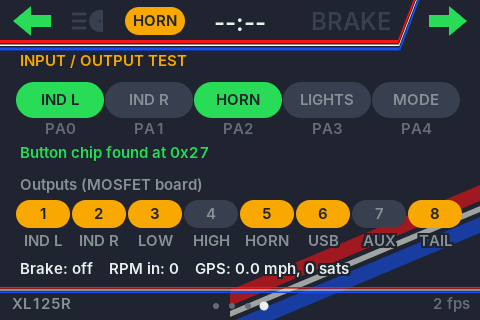
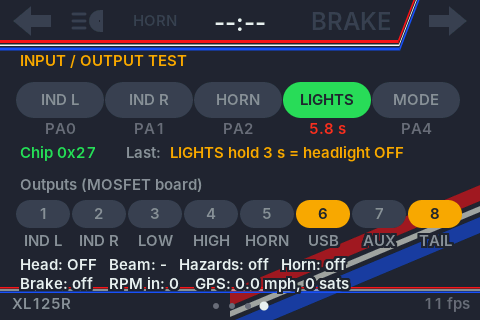
Dash v1: LIGHTS hold 3 s = headlight on/off, MODE hold 3 s on TRIP page resets trip A, TEST page shows held time, last action and light state
Claude-Session: https://claude.ai/code/session_01EhMcsDqwmw83FR1G3AXd3V

diff --git a/firmware/xl-dash-v1/dash.h b/firmware/xl-dash-v1/dash.h
@@ -279,6 +279,7 @@ struct Ride {
   int gear = 0;
   bool indL = false, indR = false, beam = false, brake = false;
   bool hazard = false, high = false, flash = false, horn = false;
+  bool lightsOn = true;           // headlight on at power-up
   bool out[8] = {};               // what each MOSFET output is doing right now
   uint8_t btn = 0;                // bit n = MCP pin n pressed (raw, live)
   int mcpAddr = -1;               // where the button chip was found, -1 = not found
@@ -476,27 +477,57 @@ static void saveTrips() {
 }
 
 static int pendingPage = 0;      // set by the MODE button, acted on in the loop
+static char lastEvent[48] = "press a button";   // shown on the TEST page and printed to Serial
+static uint32_t eventCount = 0;
+static void logEvent(const char *s) {
+  snprintf(lastEvent, sizeof lastEvent, "%s", s); eventCount++;
+  Serial.printf("[button] %s\n", s);
+}
 static void handleButtons() {
   mcpRead();
   int e;
   if ((e = pollButton(bL))) {
-    if (e == 1) { S.hazard = false; S.indR = false; S.indL = !S.indL; }
-    else        { S.hazard = !S.hazard; S.indL = S.indR = false; }
+    if (e == 1) { S.hazard = false; S.indR = false; S.indL = !S.indL; logEvent(S.indL ? "IND L tap = left ON" : "IND L tap = left off"); }
+    else        { S.hazard = !S.hazard; S.indL = S.indR = false; logEvent(S.hazard ? "IND L hold = hazards ON" : "IND L hold = hazards off"); }
   }
   if ((e = pollButton(bR))) {
-    if (e == 1) { S.hazard = false; S.indL = false; S.indR = !S.indR; }
-    else        { S.hazard = !S.hazard; S.indL = S.indR = false; }
+    if (e == 1) { S.hazard = false; S.indL = false; S.indR = !S.indR; logEvent(S.indR ? "IND R tap = right ON" : "IND R tap = right off"); }
+    else        { S.hazard = !S.hazard; S.indL = S.indR = false; logEvent(S.hazard ? "IND R hold = hazards ON" : "IND R hold = hazards off"); }
   }
-  pollButton(bHorn);
+  if (pollButton(bHorn) == 1) logEvent("HORN pressed");
   S.horn = S.btn & (1 << BTN_HORN);                       // straight from the switch, no delay
-  if (pollButton(bLights) == 1) S.high = !S.high;
-  // MODE: tap = flash the high beam for PASS_FLASH_MS, hold = next page
-  static uint32_t passUntil = 0;
-  if ((e = pollButton(bMode))) {
-    if (e == 1) passUntil = millis() + PASS_FLASH_MS;
-    else pendingPage = +1;
+  uint32_t now = millis();
+
+  // LIGHTS: tap = high / low (or back on, if off), hold LIGHTS_OFF_MS = headlight on / off
+  static bool lightsDone = false;
+  if (pollButton(bLights) == 1) {
+    if (!S.lightsOn) { S.lightsOn = true; logEvent("LIGHTS tap = headlight back ON"); }
+    else { S.high = !S.high; logEvent(S.high ? "LIGHTS tap = HIGH beam" : "LIGHTS tap = low beam"); }
   }
-  S.flash = (bLights.down && bLights.held) || (int32_t)(passUntil - millis()) > 0;
+  if (!bLights.down) lightsDone = false;
+  else if (!lightsDone && now - bLights.downMs >= LIGHTS_OFF_MS) {
+    S.lightsOn = !S.lightsOn; S.high = false; lightsDone = true;
+    logEvent(S.lightsOn ? "LIGHTS hold 3 s = headlight ON" : "LIGHTS hold 3 s = headlight OFF");
+  }
+
+  // MODE: tap = flash the high beam for PASS_FLASH_MS, hold = next page.
+  // On the TRIP page: hold and let go = next page, keep holding TRIP_RESET_MS = reset trip A.
+  static uint32_t passUntil = 0;
+  static bool modeWaiting = false;
+  if ((e = pollButton(bMode))) {
+    if (e == 1) { passUntil = now + PASS_FLASH_MS; logEvent("MODE tap = flash high beam"); }
+    else if (page == 1) modeWaiting = true;
+    else { pendingPage = +1; logEvent("MODE hold = next page"); }
+  }
+  if (modeWaiting) {
+    if (!bMode.down) { modeWaiting = false; pendingPage = +1; logEvent("MODE hold = next page"); }
+    else if (now - bMode.downMs >= TRIP_RESET_MS) {
+      modeWaiting = false;
+      S.tripA = 0; S.maxMph = 0; S.rideS = 0; S.movingS = 0; saveTrips();
+      logEvent("MODE hold 3 s = trip A RESET");
+    }
+  }
+  S.flash = (int32_t)(passUntil - now) > 0;
 }
 
 static bool flashPhase() { return (millis() % FLASH_PERIOD_MS) < FLASH_PERIOD_MS / 2; }
@@ -504,9 +535,9 @@ static void writeOutputs() {
   bool f = flashPhase(), w[8];
   w[O_IND_L] = (S.indL || S.hazard) && f;
   w[O_IND_R] = (S.indR || S.hazard) && f;
-  bool highOn = S.high || S.flash;
+  bool highOn = (S.lightsOn && S.high) || S.flash;   // flash works even with the lights off
   w[O_HIGH] = highOn;
-  w[O_LOW] = !highOn || LOW_WITH_HIGH;
+  w[O_LOW] = S.lightsOn && (!highOn || LOW_WITH_HIGH);
   w[O_HORN] = S.horn;
   w[O_USB] = true;
   w[O_AUX] = false;
@@ -756,7 +787,7 @@ static Rect widgetRect(int id) {
     case W_SYS: return Rect{180, 76, 296, 206};
     case W_BTNS: return Rect{14, 74, 452, 96};
     case W_OUTS: return Rect{14, 196, 452, 56};
-    case W_TINFO: return Rect{14, 254, 452, 30};
+    case W_TINFO: return Rect{14, 254, 452, 40};
     default: return tripRect(id - W_T0);
   }
 }
@@ -789,7 +820,7 @@ static uint32_t widgetKey(int id) {
   switch (id) {
     case W_INDL: return indLit(true) ? 1 : 2;
     case W_INDR: return indLit(false) ? 1 : 2;
-    case W_BEAM: return S.beam ? 1 : 2;
+    case W_BEAM: return S.beam ? 1 : (S.lightsOn ? 2 : 3);
     case W_NEUT: return S.horn ? 1 : 2;
     case W_BRAKE: return S.brake ? 1 : 2;
     case W_CLOCK: { int hh, mm; return ukClock(hh, mm) ? (uint32_t)(hh * 60 + mm + 10) : 1; }
@@ -799,9 +830,15 @@ static uint32_t widgetKey(int id) {
     case W_TRIP: snprintf(b, sizeof b, "%.1f", S.tripA); return fnv(b);
     case W_ODO: snprintf(b, sizeof b, "%.1f", S.odo); return fnv(b);
     case W_BATT: snprintf(b, sizeof b, "%.1f %d %d", S.battV, S.lipoPct, S.charging); return fnv(b);
-    case W_BTNS: return (uint32_t)S.btn * 4 + (S.mcpAddr < 0 ? 0 : S.mcpAddr) * 1024 + 1;
+    case W_BTNS: {
+      uint32_t k = (uint32_t)S.btn * 4 + (S.mcpAddr < 0 ? 0 : S.mcpAddr) * 1024 + eventCount * 262144u + 1;
+      const Button *bs[5] = {&bL, &bR, &bHorn, &bLights, &bMode};
+      for (int i = 0; i < 5; i++) if (bs[i]->down) k = k * 31 + (millis() - bs[i]->downMs) / 100;   // held time, 0.1 s steps
+      return k;
+    }
     case W_OUTS: { uint32_t k = 1; for (int i = 0; i < 8; i++) k = k * 2 + (S.out[i] ? 1 : 0); return k; }
-    case W_TINFO: snprintf(b, sizeof b, "%d%d%d%d", S.brake, (int)S.rpm / 10, (int)(S.mph * 10), G.sats); return fnv(b);
+    case W_TINFO: snprintf(b, sizeof b, "%d%d%d%d%d%d%d%d%d", S.brake, (int)S.rpm / 10, (int)(S.mph * 10), G.sats,
+                           S.lightsOn, S.high, S.flash, S.hazard, S.horn); return fnv(b);
     case W_SYS: { if (millis() % 500 > 40) return lastKey[W_SYS]; char l[8][32]; sysLines(l); uint32_t h = 2166136261u; for (int i = 0; i < 8; i++) h = fnv(l[i], h); return h; }
     default: {
       int i = id - W_T0;
@@ -822,7 +859,7 @@ static void drawWidget(int id) {
   switch (id) {
     case W_INDL: arrowIcon(r, true, indLit(true) ? C_GRN : C_OFF); break;
     case W_INDR: arrowIcon(r, false, indLit(false) ? C_GRN : C_OFF); break;
-    case W_BEAM: beamIcon(r, S.beam ? C_BLU : C_OFF); break;
+    case W_BEAM: beamIcon(r, S.beam ? C_BLU : (S.lightsOn ? C_GRN : C_OFF)); break;   // blue high, green low, grey off
     case W_NEUT:   // HORN light
       if (S.horn) { capsule(r.x + 15, r.y + 15, r.x + r.w - 15, r.y + 15, 14, C_AMB); text(F_SMALL, r.x + r.w / 2, r.y + 20, "HORN", C_BG, CENTRE); }
       else text(F_SMALL, r.x + r.w / 2, r.y + 20, "HORN", C_OFF, CENTRE);
@@ -860,17 +897,26 @@ static void drawWidget(int id) {
     case W_BTNS: {
       static const char *nm[5] = {"IND L", "IND R", "HORN", "LIGHTS", "MODE"};
       static const int pins[5] = {BTN_IND_L, BTN_IND_R, BTN_HORN, BTN_LIGHTS, BTN_MODE};
+      const Button *bs[5] = {&bL, &bR, &bHorn, &bLights, &bMode};
       for (int i = 0; i < 5; i++) {
         bool on = S.btn & (1 << pins[i]);
         int x = r.x + 6 + i * 89;
         capsule(x + 14, r.y + 26, x + 66, r.y + 26, 18, on ? C_GRN : C_OFF);
         text(F_SMALL, x + 40, r.y + 31, nm[i], on ? C_BG : C_GREY, CENTRE);
-        snprintf(b, sizeof b, "PA%d", pins[i]);
-        text(F_SMALL, x + 40, r.y + 60, b, C_DIM, CENTRE);
+        if (bs[i]->down) {             // how long it's been held: amber once it counts as a hold
+          uint32_t ms = millis() - bs[i]->downMs;
+          snprintf(b, sizeof b, "%.1f s", ms / 1000.0f);
+          text(F_SMALL, x + 40, r.y + 60, b, ms >= 3000 ? C_RED : ms >= HOLD_MS ? C_AMB : C_TXT, CENTRE);
+        } else {
+          snprintf(b, sizeof b, "PA%d", pins[i]);
+          text(F_SMALL, x + 40, r.y + 60, b, C_DIM, CENTRE);
+        }
       }
-      if (S.mcpAddr >= 0) snprintf(b, sizeof b, "Button chip found at 0x%02X", S.mcpAddr);
-      else snprintf(b, sizeof b, "Button chip NOT FOUND (check 4 wires / address)");
+      if (S.mcpAddr >= 0) snprintf(b, sizeof b, "Chip 0x%02X", S.mcpAddr);
+      else snprintf(b, sizeof b, "Chip NOT FOUND");
       textOutlined(F_SMALL, r.x + 6, r.y + 84, b, S.mcpAddr >= 0 ? C_GRN : C_RED);
+      textOutlined(F_SMALL, r.x + 112, r.y + 84, "Last:", C_GREY);
+      textOutlined(F_SMALL, r.x + 156, r.y + 84, lastEvent, C_AMB);
       break;
     }
     case W_OUTS:
@@ -883,8 +929,11 @@ static void drawWidget(int id) {
       }
       break;
     case W_TINFO:
+      snprintf(b, sizeof b, "Head: %s   Beam: %s%s   Hazards: %s   Horn: %s", S.lightsOn ? "ON" : "OFF",
+               S.high && S.lightsOn ? "HIGH" : S.lightsOn ? "low" : "-", S.flash ? " +FLASH" : "", S.hazard ? "ON" : "off", S.horn ? "ON" : "off");
+      textOutlined(F_SMALL, r.x + 6, r.y + 16, b, C_TXT);
       snprintf(b, sizeof b, "Brake: %s    RPM in: %d    GPS: %.1f mph, %d sats", S.brake ? "ON" : "off", (int)S.rpm, S.mph, G.sats);
-      textOutlined(F_SMALL, r.x + 6, r.y + 20, b, C_TXT);
+      textOutlined(F_SMALL, r.x + 6, r.y + 35, b, C_TXT);
       break;
     case W_SYS: { char l[8][32]; sysLines(l); for (int i = 0; i < 8; i++) text(F_MED, 470, 98 + i * 25, l[i], C_TXT, RIGHT); break; }
     default: {

diff --git a/firmware/xl-dash-v1/config.h b/firmware/xl-dash-v1/config.h
@@ -36,6 +36,8 @@
 static const uint32_t HOLD_MS     = 700;   // long press
 static const uint32_t DEBOUNCE_MS = 25;
 static const uint32_t PASS_FLASH_MS = 400;  // MODE tap: how long the high beam flashes
+static const uint32_t LIGHTS_OFF_MS = 3000; // LIGHTS hold this long: headlight on / off
+static const uint32_t TRIP_RESET_MS = 3000; // MODE hold this long on the TRIP page: reset trip A
 
 // ---- Outputs: GPIO -> MOSFET board IN1..IN8 (jumpers on H: HIGH = on) ----
 //                               OUT1 OUT2 OUT3 OUT4 OUT5 OUT6 OUT7 OUT8

diff --git a/firmware/xl-dash-v1/README.md b/firmware/xl-dash-v1/README.md
@@ -15,8 +15,8 @@ Arduino IDE: ESP32S3 Dev Module, esp32 core **3.2.0**, USB CDC On Boot Enabled, 
 | --- | --- |
 | IND L / IND R (PA0 / PA1) | tap on/cancel, hold 0.7 s hazards; arrows flash in sync with OUT1/OUT2 |
 | HORN (PA2) | OUT5 + HORN light while pressed |
-| LIGHTS (PA3) | tap high/low (OUT4 / OUT3), hold = flash high |
-| MODE (PA4) | tap = flash high beam (0.4 s, `PASS_FLASH_MS`), hold = next page |
+| LIGHTS (PA3) | tap high/low (OUT4 / OUT3), hold 3 s = headlight on/off (beam icon: blue high, green low, grey off) |
+| MODE (PA4) | tap = flash high beam (0.4 s, `PASS_FLASH_MS`), hold = next page; on TRIP page keep holding 3 s = reset trip A |
 | GPS (IO17/18, 9600) | speed (0 below 1.5 mph), odometer + trips saved to flash every 0.1 mi, UK clock (BST auto) |
 | RPM (IO21) | needle, once the pickup is fitted (`SPARKS_PER_REV` is a guess) |
 | Brake (IO48) | BRAKE light |
